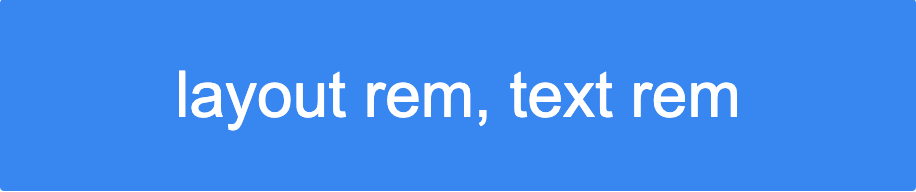
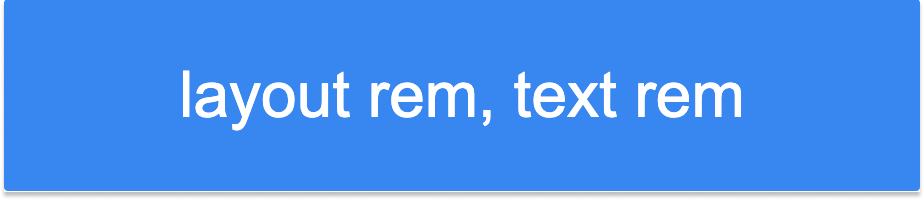
docs(rfc): add shadows to images

Changed region(s): [[0.1834, 0.3438, 0.8253, 0.6875], [0.0, 0.0, 1.0, 1.0]]

diff --git a/rfcs/2021-19-02-units-for-typography-and-layout.md b/rfcs/2021-19-02-units-for-typography-and-layout.md
@@ -3,13 +3,6 @@ Start Date: 19-02-2021
 RFC PR: NA
 Blade Issue: NA
 ---
-
-<style>
-img {
-filter: drop-shadow(0 0 0.50rem #878787);
-}
-</style>
-
 # Units for typography and layout <!-- omit in toc -->
 
 ### Table Of Contents <!-- omit in toc -->
@@ -344,9 +337,9 @@ html {
 # Open Questions
 1. Browser zoom and browser font size behave differently? Couldn't figure out what does browser zoom does differently like what css props does it changes so in order to have parity we need to mimic it? Asking since the POC I shared and the most systems they either work well with browser zoom or browser font size change but rarely both.
 
-   <img alt="Browser font size change" src="./images/unit-browser-font-size.jpeg" width="700px">
+   <img alt="Browser font size change" src="./images/unit-browser-font-size.png" width="700px">
 
-   <img alt="Browser zoom" src="./images/unit-browser-zoom.jpeg" width="700px">
+   <img alt="Browser zoom" src="./images/unit-browser-zoom.png" width="700px">
 
 2. Design tokens for cross platforms(react for web, react native for apps) which means the typography and spacing scale needs to be stored in a unitless fashion?
 3. Couldn't find what does WCAG says about this exactly? For eg: it just says the content should be readable at 200% zoom - put the link to wcag guideline
@@ -366,27 +359,3 @@ html {
 # Lesser known facts
 1. `1rem` = `16px` - default in all the browsers unless the default font-size of the browser is set to anything else explicitly.
 2. `padding: 1rem` - rems always takes base value as font-size of the browser regardless of the property they are used on. In this example 1rem = 16px so `padding: 16px`
-
-Common Questions:
-Do we need rems in typography?
-Do we need rems in spacing?
-Do we need spacing and sizing? or just spacing will do the job?
-What happens with everything rems
-what happens with everything px
-what happens with font size rems and rest everything px
-How do we store it in tokens? Store in px and render in dependent platform units?
-React Native is still gray area. What are rems equivalent in RN?
-
-Properties that will be affected with units
-
-Font Size
-font-size
-line-height
-
-Layout
-  space
-    padding
-    margin
-  size
-    height
-    width
